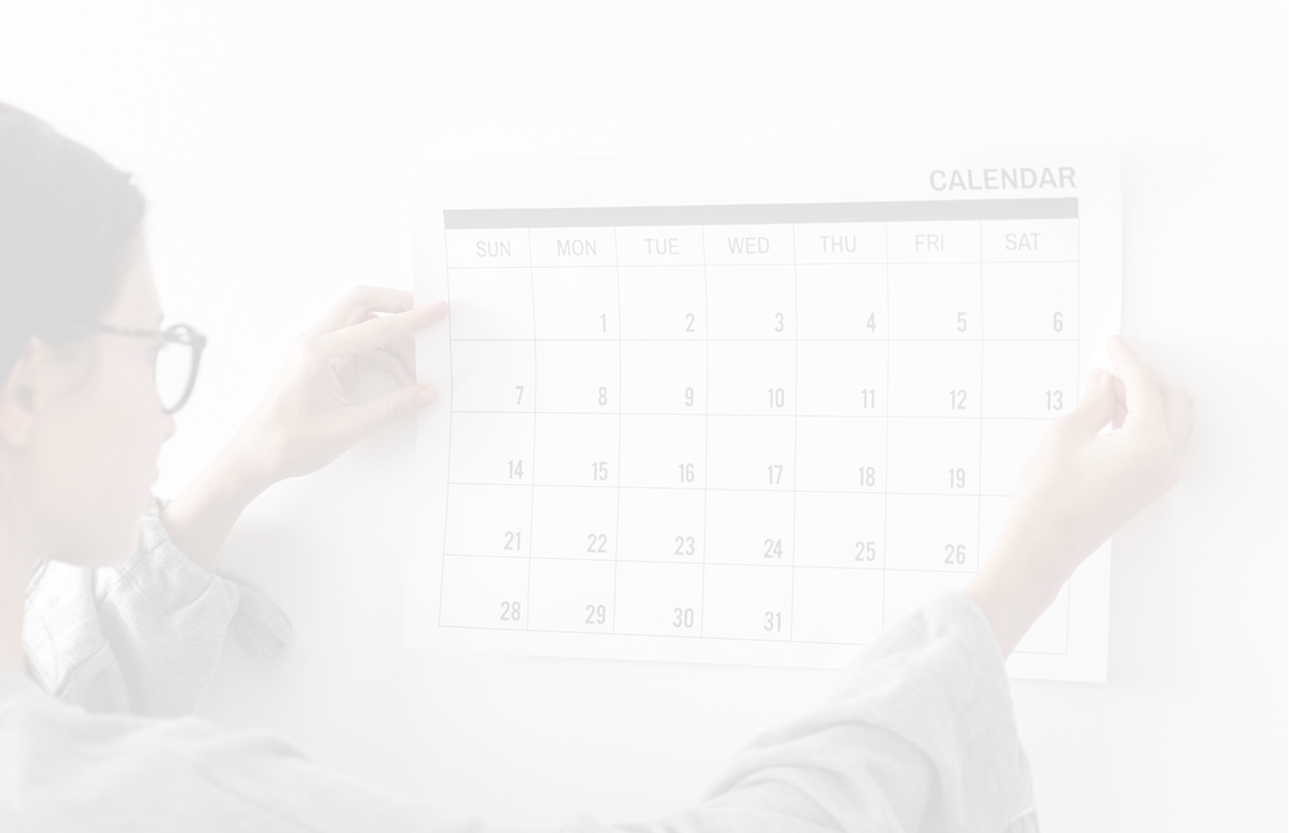
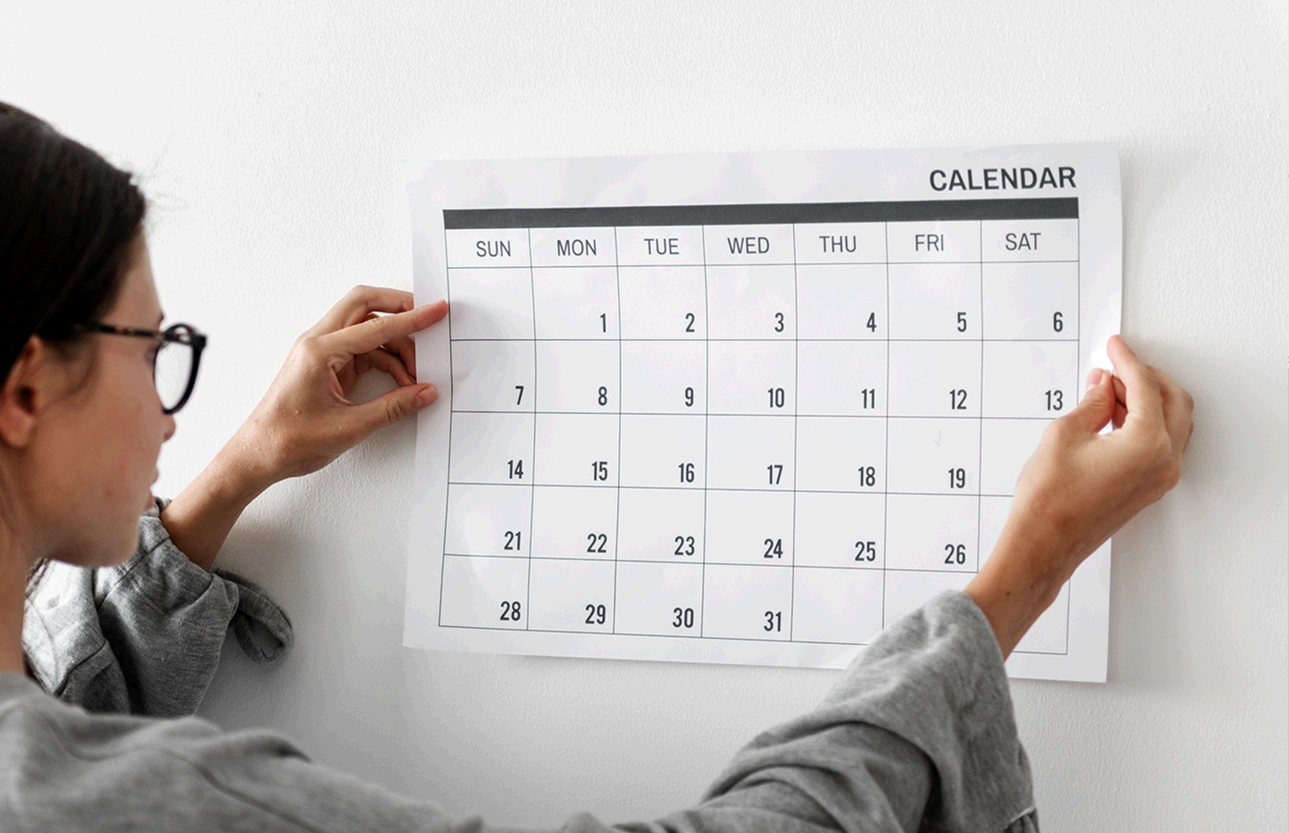
fix(marketing): normalize VBL image opacity

diff --git a/apps/vbl/e2e/marketing/vbl-refund.spec.ts b/apps/vbl/e2e/marketing/vbl-refund.spec.ts
@@ -166,6 +166,61 @@ test('vbl-refund renders the approved cards, split imagery and action sizes', as
     ineligibleSection.getByTestId('vbl-ineligible-background')
   ).toHaveCSS('opacity', '0.34');
 
+  const sourceAlphaRanges = await page.evaluate(async () => {
+    const paths = [
+      '/marketing/vbl-refund/laptop-vbl-document-checklist.png',
+      '/marketing/vbl-refund/vbl-refund-eligibility-calendar.png',
+      '/marketing/vbl-refund/vbl-refund-ineligible-review.png',
+    ];
+
+    return Promise.all(
+      paths.map(async (path) => {
+        const image = new Image();
+        image.src = path;
+        await image.decode();
+
+        const canvas = document.createElement('canvas');
+        canvas.width = image.naturalWidth;
+        canvas.height = image.naturalHeight;
+        const context = canvas.getContext('2d', { willReadFrequently: true });
+        if (!context) throw new Error(`Could not inspect ${path}`);
+        context.drawImage(image, 0, 0);
+
+        const pixels = context.getImageData(
+          0,
+          0,
+          canvas.width,
+          canvas.height
+        ).data;
+        let minimum = 255;
+        let maximum = 0;
+        for (let index = 3; index < pixels.length; index += 4) {
+          minimum = Math.min(minimum, pixels[index]);
+          maximum = Math.max(maximum, pixels[index]);
+        }
+
+        return { path, minimum, maximum };
+      })
+    );
+  });
+  expect(sourceAlphaRanges).toEqual([
+    {
+      path: '/marketing/vbl-refund/laptop-vbl-document-checklist.png',
+      minimum: 255,
+      maximum: 255,
+    },
+    {
+      path: '/marketing/vbl-refund/vbl-refund-eligibility-calendar.png',
+      minimum: 255,
+      maximum: 255,
+    },
+    {
+      path: '/marketing/vbl-refund/vbl-refund-ineligible-review.png',
+      minimum: 255,
+      maximum: 255,
+    },
+  ]);
+
   const actionSections = [
     'Can I get a VBL refund?',
     'Worked in Germany’s public sector and paid into VBL?',

diff --git a/apps/vbl/app/(marketing)/vbl-refund/page.tsx b/apps/vbl/app/(marketing)/vbl-refund/page.tsx
@@ -83,18 +83,9 @@ function ExclusionList({ items }: { items: ReactNode[] }) {
   );
 }
 
-function InfoNote({
-  children,
-  tone = 'neutral',
-}: {
-  children: ReactNode;
-  tone?: 'neutral' | 'green';
-}) {
-  const tones = { neutral: 'bg-neutral-50', green: 'bg-accent/10' } as const;
+function InfoNote({ children }: { children: ReactNode }) {
   return (
-    <div
-      className={`flex items-start gap-2 rounded-brand ${tones[tone]} px-4 py-3 text-sm text-gray-600`}
-    >
+    <div className="flex items-start gap-2 rounded-brand bg-neutral-50 px-4 py-3 text-sm text-gray-600">
       <Info className="mt-0.5 h-5 w-5 shrink-0 text-brand" aria-hidden="true" />
       <div>{children}</div>
     </div>
